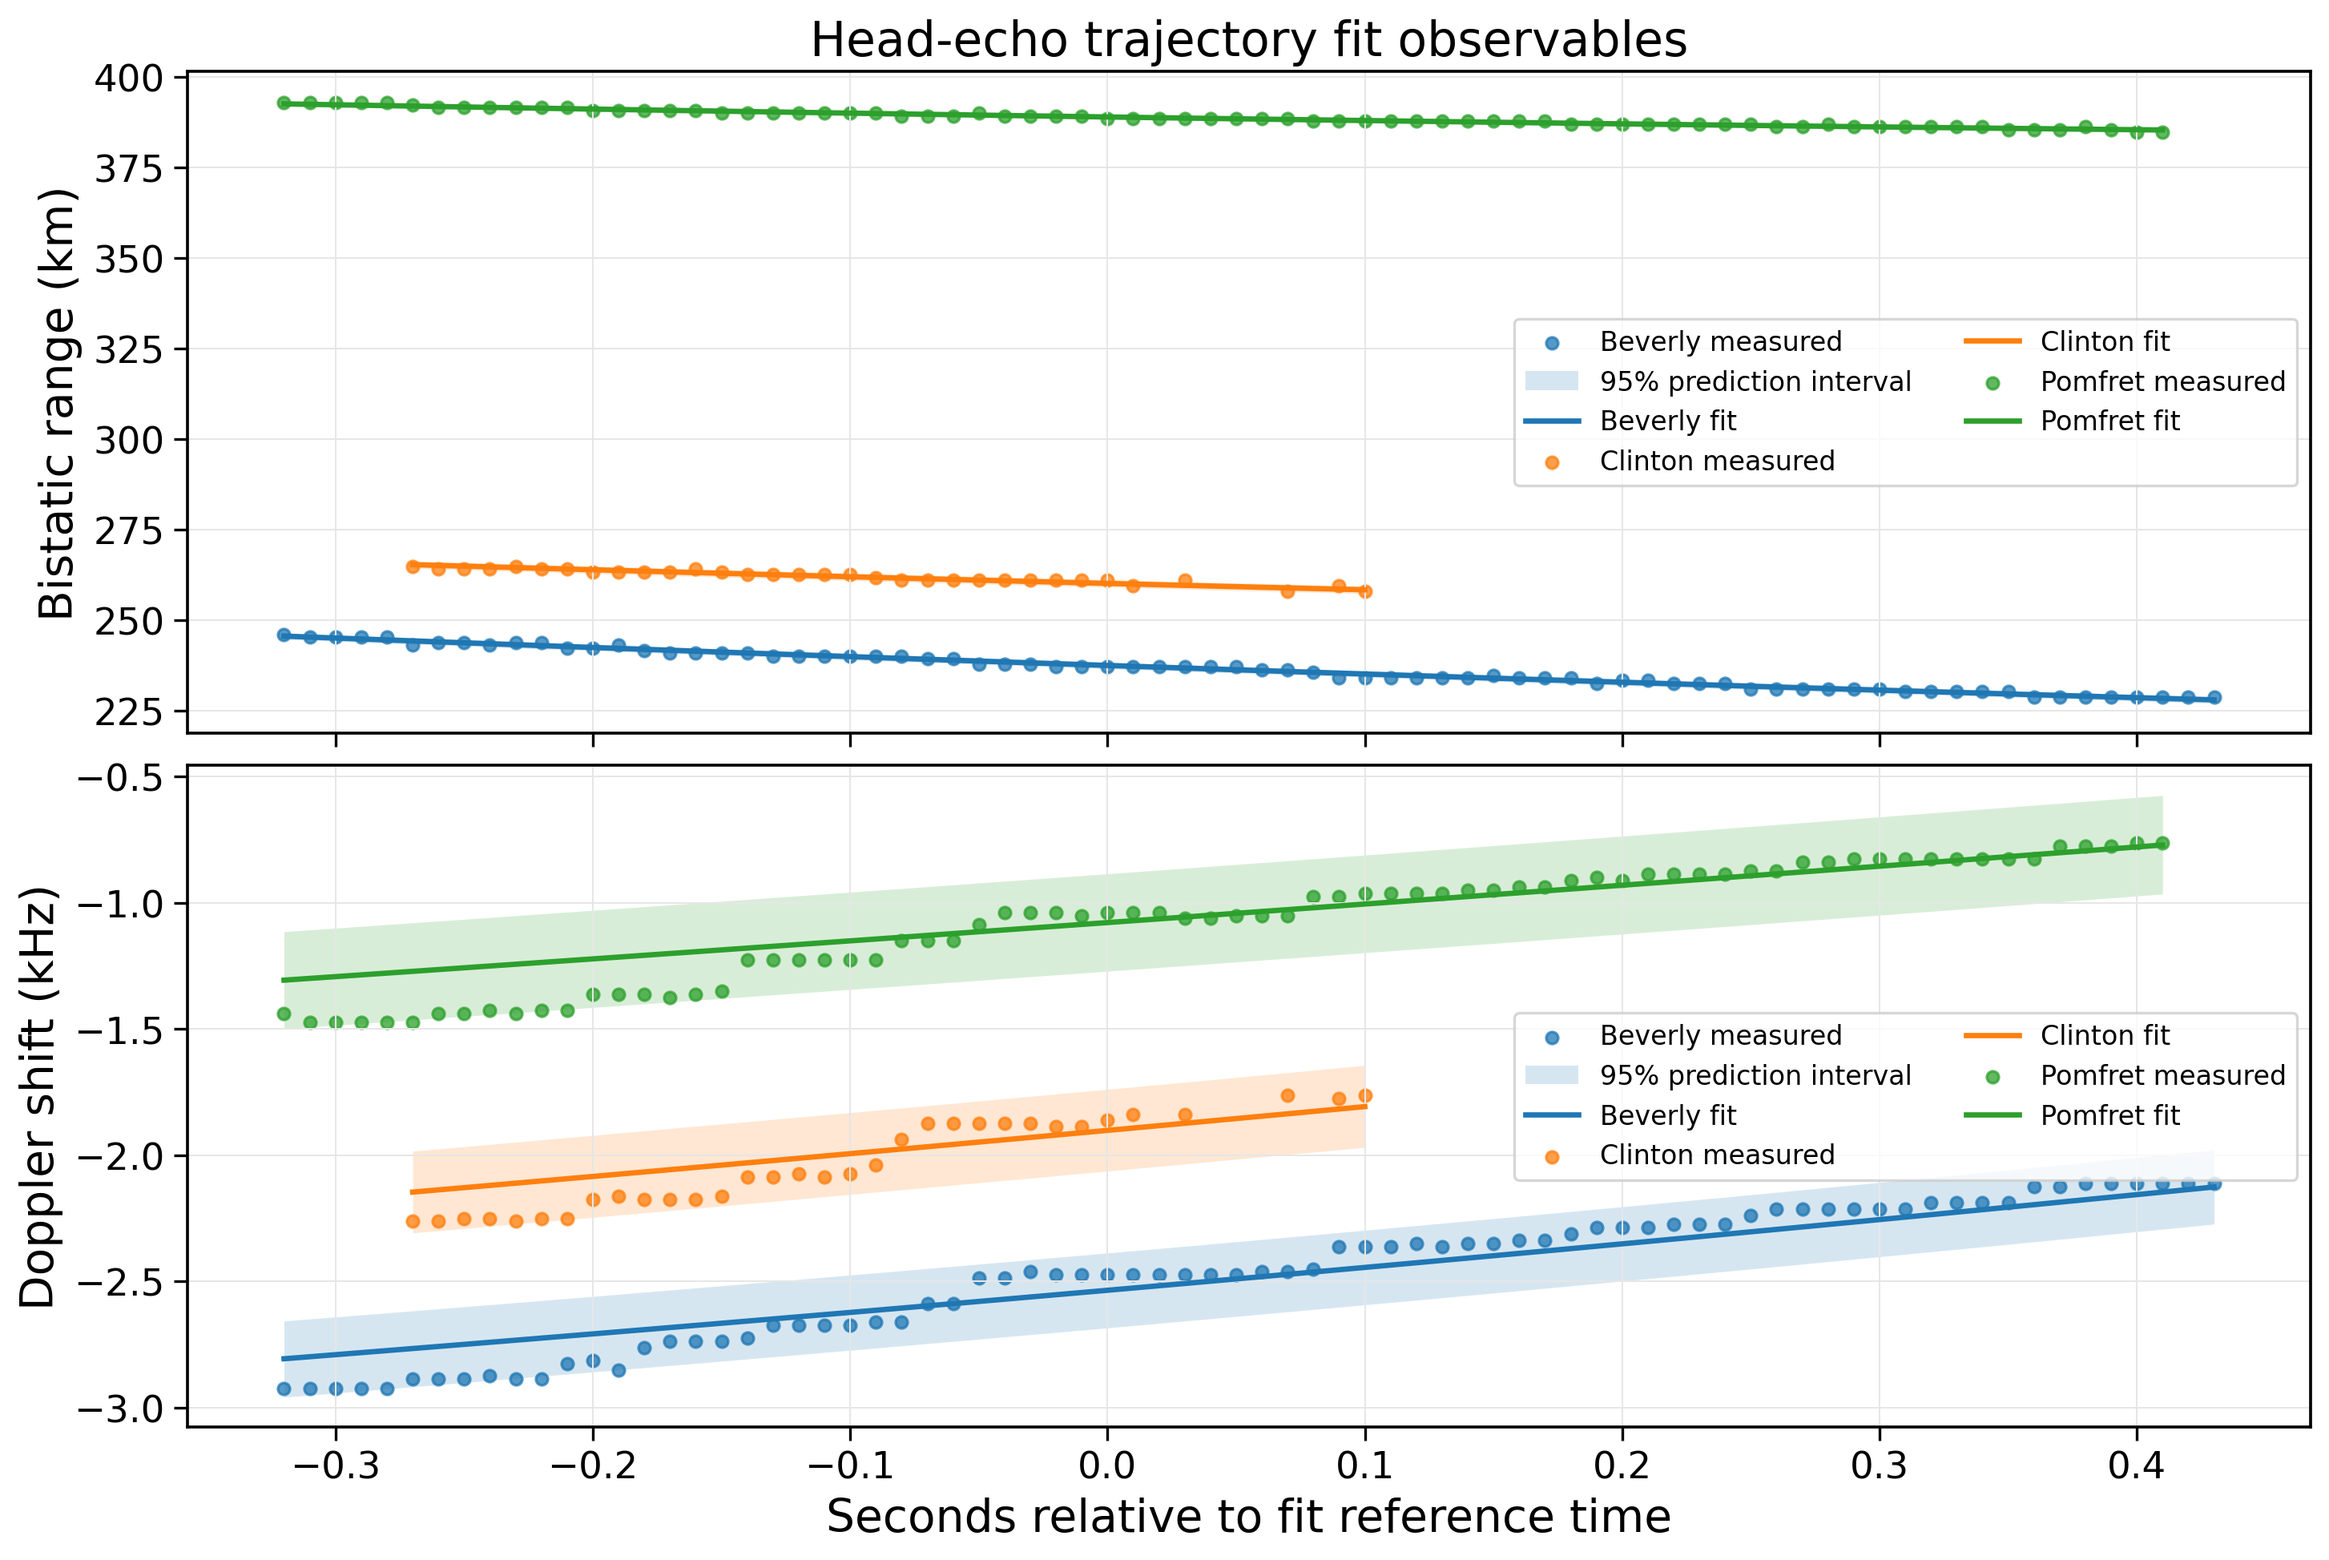
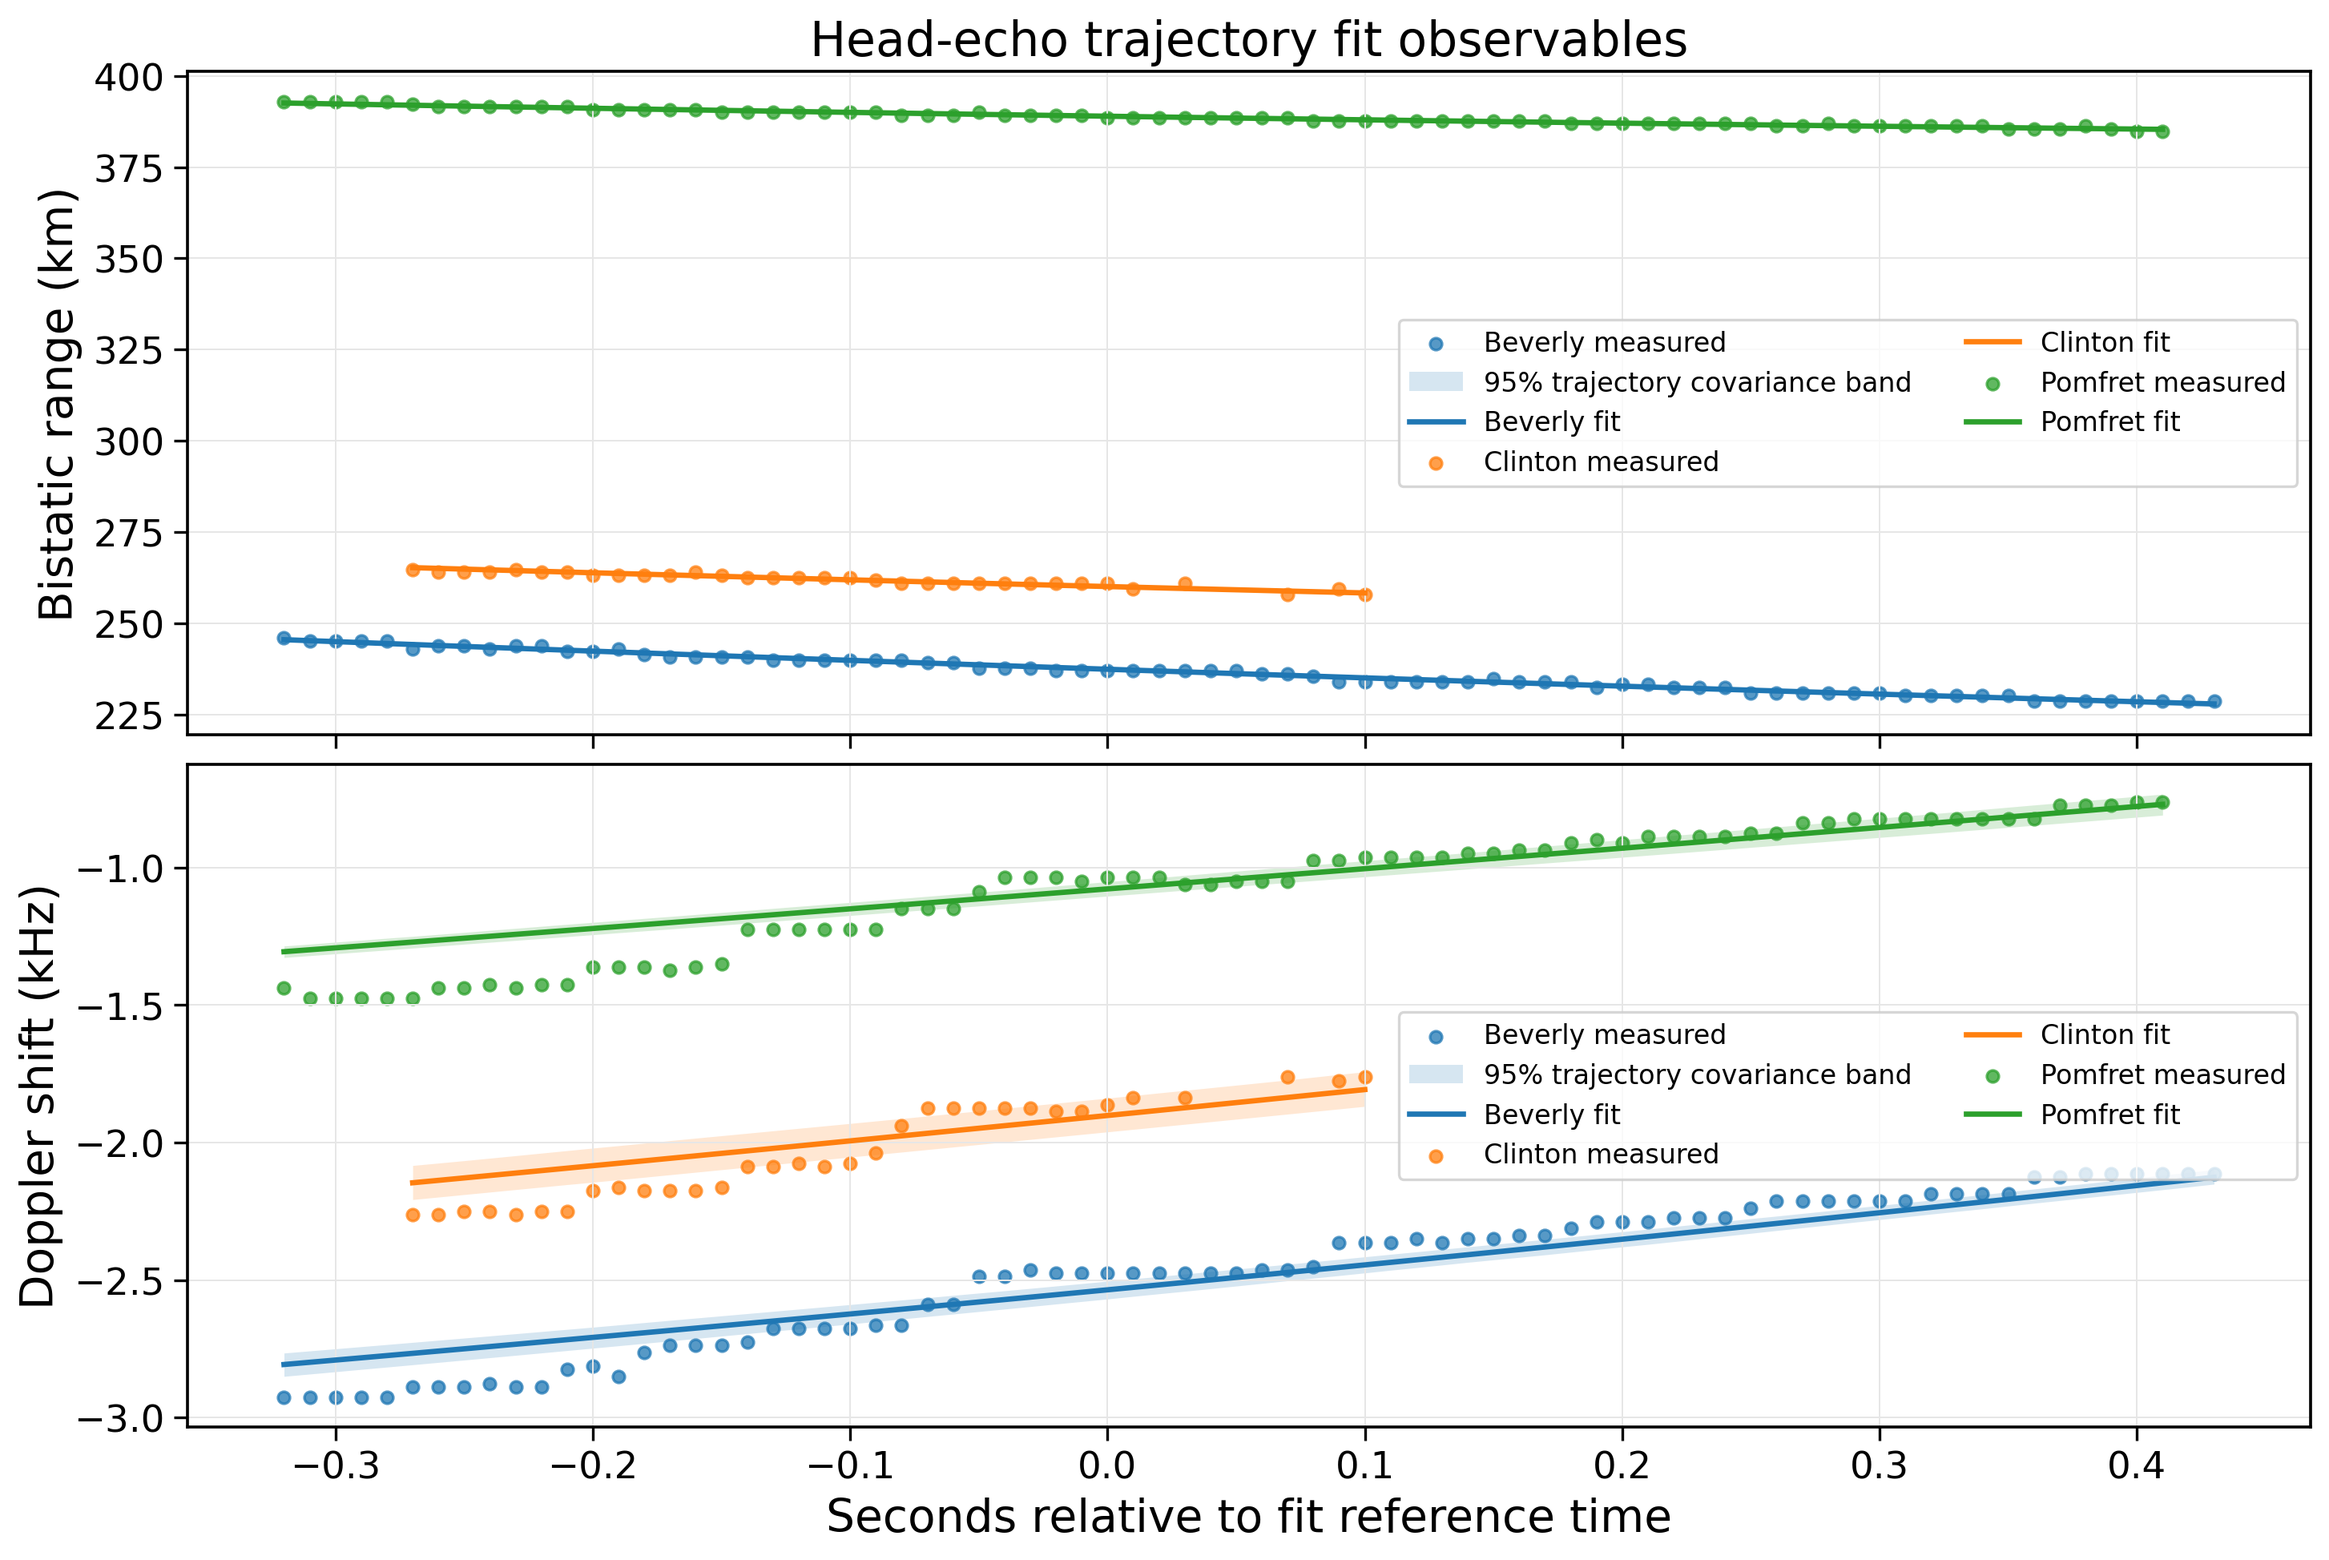
Use covariance-only bands for trajectory observables

diff --git a/reports/generate_trajectory_report_assets.py b/reports/generate_trajectory_report_assets.py
@@ -122,12 +122,12 @@ def pm(value, sigma, unit="", min_decimals=1):
     return f"{text} {unit}".rstrip()
 
 
-def prediction_interval_from_samples(sample_values, residual_half_width, coverage=0.95):
-    pred_mean = np.nanmean(sample_values, axis=0)
-    lo, hi = np.nanpercentile(sample_values, [(1.0 - coverage) * 50.0, 100.0 - (1.0 - coverage) * 50.0], axis=0)
-    param_half_width = np.maximum(pred_mean - lo, hi - pred_mean)
-    total_half_width = np.sqrt(param_half_width * param_half_width + residual_half_width * residual_half_width)
-    return pred_mean - total_half_width, pred_mean + total_half_width
+def covariance_band_from_samples(sample_values, coverage=0.95):
+    return np.nanpercentile(
+        sample_values,
+        [(1.0 - coverage) * 50.0, 100.0 - (1.0 - coverage) * 50.0],
+        axis=0,
+    )
 
 
 def plot_range_doppler_measurements(fit, geom, tx0, rot, params, samples):
@@ -149,12 +149,10 @@ def plot_range_doppler_measurements(fit, geom, tx0, rot, params, samples):
         pred_dop_khz = predict_dopplers(params, model_obs, geom, t_ref, tx0, rot) / 1000.0
         sample_range = np.array([predict_ranges(p, model_obs, geom, t_ref, tx0, rot) / 1000.0 for p in samples])
         sample_dop = np.array([predict_dopplers(p, model_obs, geom, t_ref, tx0, rot) / 1000.0 for p in samples])
-        range_residual_half_width_km = float(np.nanpercentile(np.abs(pred_range_km - range_km), 95.0))
-        doppler_residual_half_width_khz = float(np.nanpercentile(np.abs(pred_dop_khz - dop_khz), 95.0))
-        range_lo, range_hi = prediction_interval_from_samples(sample_range, range_residual_half_width_km)
-        dop_lo, dop_hi = prediction_interval_from_samples(sample_dop, doppler_residual_half_width_khz)
+        range_lo, range_hi = covariance_band_from_samples(sample_range)
+        dop_lo, dop_hi = covariance_band_from_samples(sample_dop)
 
-        uncertainty_label = "95% prediction interval" if si == 0 else None
+        uncertainty_label = "95% trajectory covariance band" if si == 0 else None
         station_name = short_station_name(station)
         axes[0].scatter(tr, range_km, s=20, alpha=0.75, color=color, label=f"{station_name} measured")
         axes[0].fill_between(tr, range_lo, range_hi, color=color, alpha=0.18, linewidth=0, label=uncertainty_label)

diff --git a/reports/processing_report_body.tex b/reports/processing_report_body.tex
@@ -356,10 +356,11 @@ the native units of each observable.  The second pass changes the residual RMS
 from 475 m and 90 Hz to \TrajectoryRangeRmsM{} m and
 \TrajectoryDopplerRmsHz{} Hz for range and Doppler, respectively.
 The shaded bands in
-Figure~\ref{fig:trajectory-observables} are prediction intervals: Monte Carlo
-draws from \(\mathcal{N}({\bf p},\widehat{\bf C}_{p})\) are propagated through
-the range and Doppler equations and then broadened by the empirical 95\%
-residual scatter for each station.
+Figure~\ref{fig:trajectory-observables} show the trajectory-parameter
+uncertainty: Monte Carlo draws from
+\(\mathcal{N}({\bf p},\widehat{\bf C}_{p})\) are propagated through the range
+and Doppler equations, and the plotted envelope is the central 95\% interval
+of the resulting model curves.
 
 \begin{figure}
   \centering
@@ -367,9 +368,10 @@ residual scatter for each station.
   \caption{Range and Doppler measurements used in the head-echo trajectory
   fit.  Points show the ROI-derived measurements after SNR thresholding and
   outlier rejection; lines show the fitted straight-line trajectory model for
-  each bistatic path.  Shaded bands show 95\% prediction intervals formed by
-  combining samples from the heteroskedasticity-robust trajectory covariance
-  with the empirical post-fit range and Doppler residual scatter.}
+  each bistatic path.  Shaded bands show central 95\% trajectory-parameter
+  uncertainty intervals obtained by propagating samples from the
+  heteroskedasticity-robust trajectory covariance through the range and
+  Doppler equations.}
   \figsource{reports/generate_trajectory_report_assets.py}
   \label{fig:trajectory-observables}
 \end{figure}
